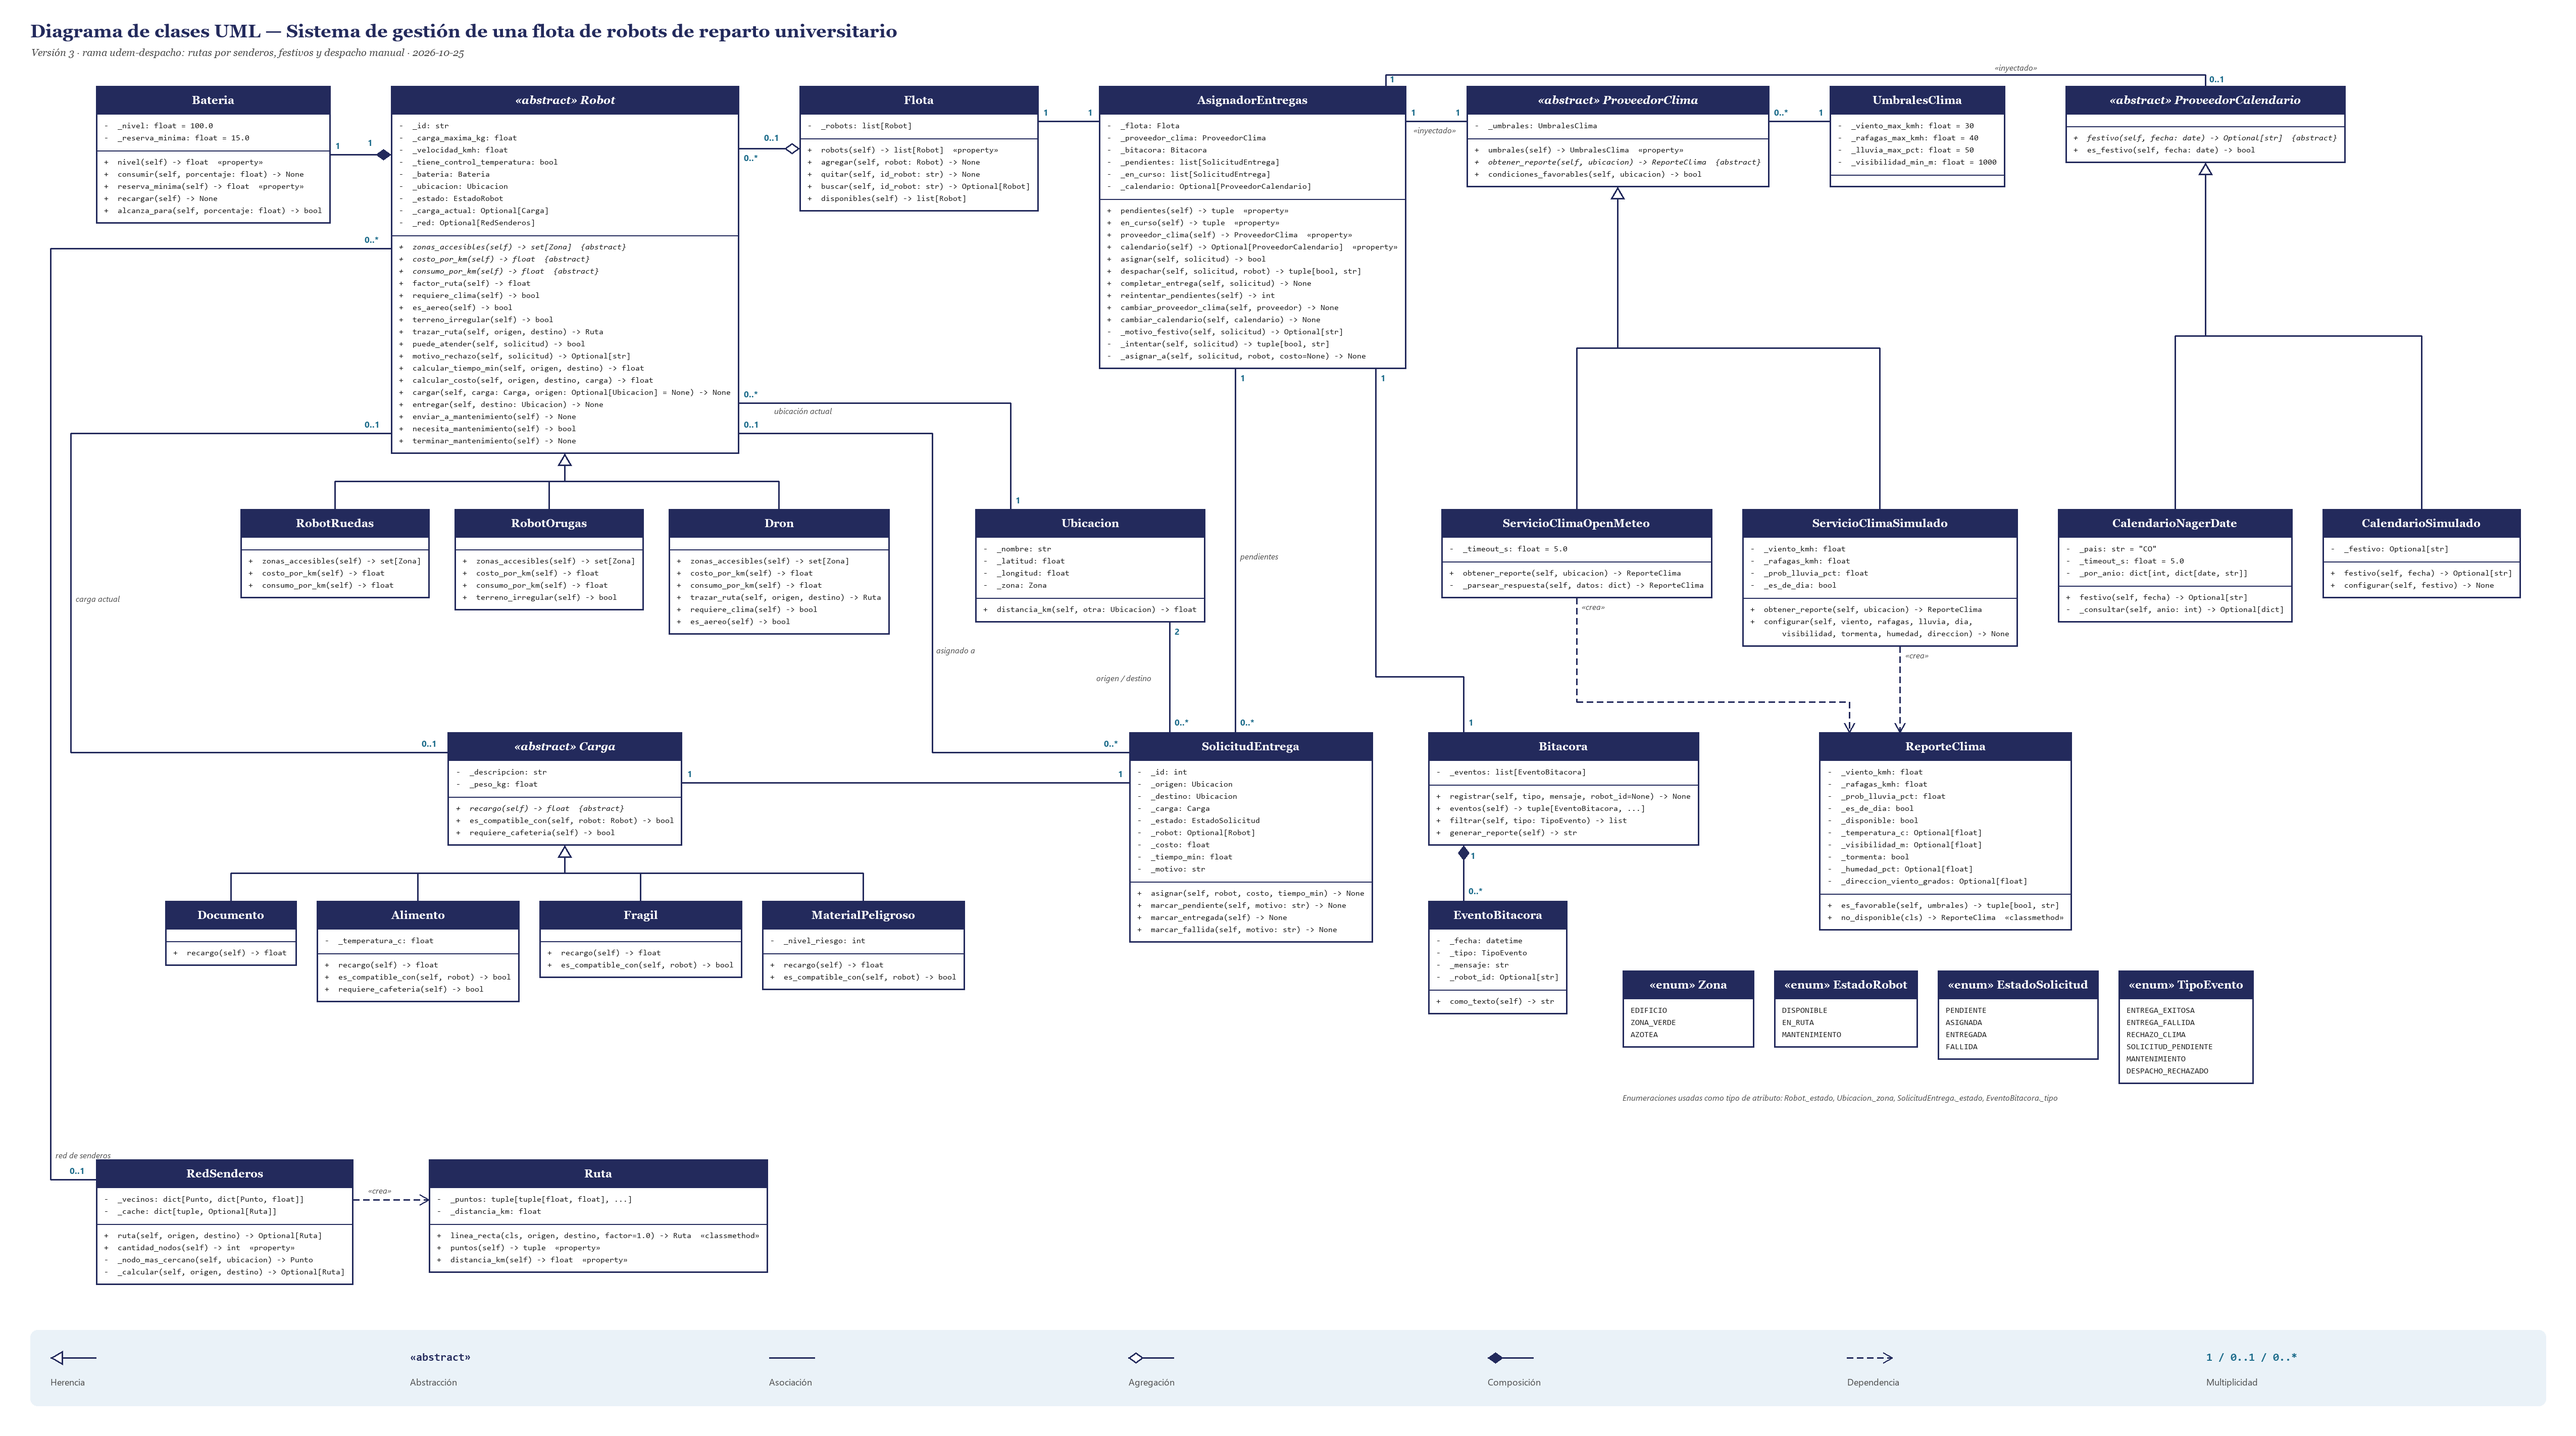
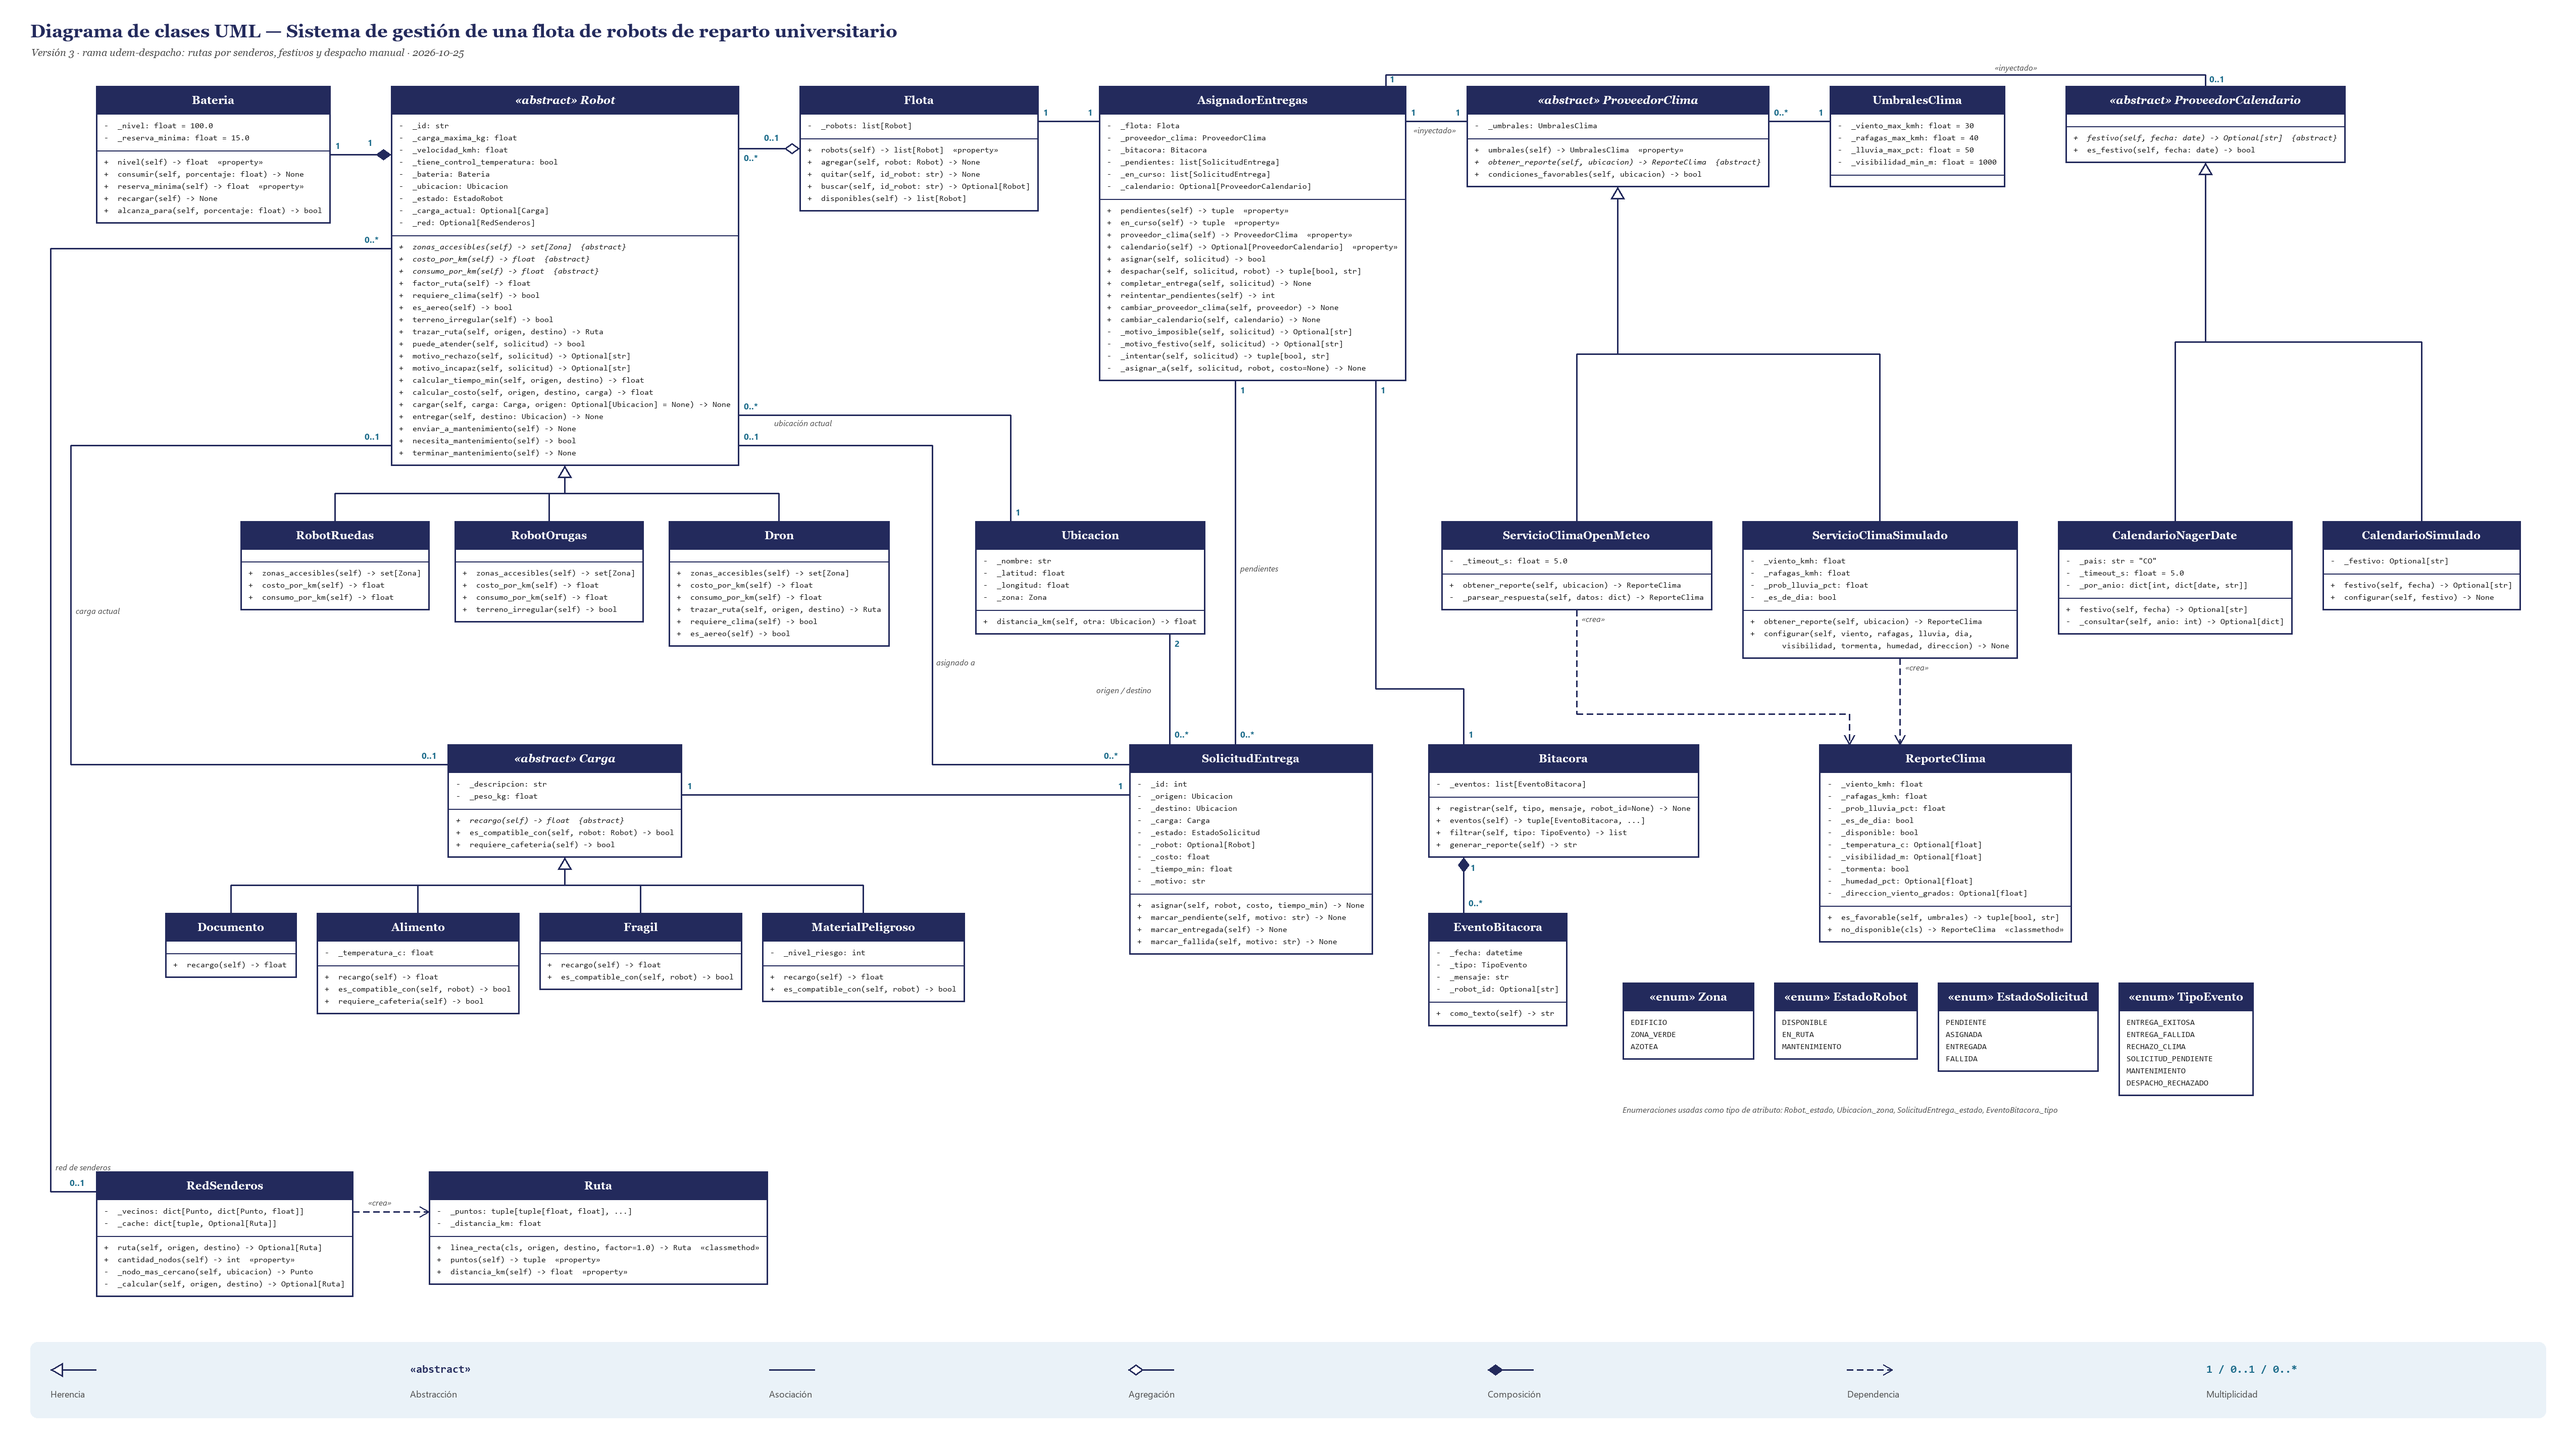
feat(asignacion): una llamada que ningún robot podría atender falla y queda en la bitácora
Robot.motivo_incapaz separa las reglas fijas (peso, zonas, tipo de carga)
de las pasajeras (estado, batería). Si ningún robot de la flota es capaz,
asignar marca la solicitud FALLIDA y registra ENTREGA_FALLIDA, como pide el
PRD, en vez de reintentarla para siempre. La web avisa el motivo al cerrar
la llamada. UML v3 y anexo de cambios al día.

diff --git a/src/flota/web/pagina/app.js b/src/flota/web/pagina/app.js
@@ -143,7 +143,13 @@ async function despacharCon(promesa) {
   const r = await promesa;
   if (r.error) return anunciar($("llamada-resultado"), r.error, false);
   const [ok, motivo] = r;
-  ok ? cerrarLlamada() : anunciar($("llamada-resultado"), `RECHAZADO: ${motivo}`, false);
+  if (ok) return cerrarLlamada();
+  anunciar($("llamada-resultado"), `RECHAZADO: ${motivo}`, false);
+  ultimo = await api.estado();
+  if (!ultimo.balizas.some(b => b.id === vista.llamada)) {  // falló: ningún robot podría llevarla
+    cerrarLlamada();
+    avisar(`llamada fallida: ${motivo}`);
+  }
 }
 
 function elegirRobot(id) {

diff --git a/tests/test_asignador.py b/tests/test_asignador.py
@@ -3,7 +3,7 @@ import pytest
 
 from flota.asignacion.asignador import DURACION_MANTENIMIENTO_S, AsignadorEntregas
 from flota.dominio.bitacora import Bitacora, TipoEvento
-from flota.dominio.carga import Alimento, Documento
+from flota.dominio.carga import Alimento, Documento, MaterialPeligroso
 from flota.dominio.estado_robot import EstadoRobot
 from flota.dominio.flota import Flota
 from flota.dominio.robot import Dron, RobotOrugas, RobotRuedas
@@ -90,7 +90,8 @@ def test_cambiar_proveedor_en_vivo(entorno):
 
 # --- Commit 11: pendientes, reintentos, entregas y mantenimiento ------------
 def test_sin_robot_queda_pendiente_y_se_registra(entorno):
-    _, bitacora, _, asignador = entorno
+    flota, bitacora, _, asignador = entorno
+    flota.agregar(RobotRuedas("R-02", ESTACION, tiene_control_temperatura=True, nivel_bateria=16))  # sin carga
     s = SolicitudEntrega(CAFETERIA, BIBLIOTECA, Alimento("Almuerzo", 1, 60))
     assert not asignador.asignar(s)
     assert asignador.pendientes == (s,) and s.motivo
@@ -98,6 +99,20 @@ def test_sin_robot_queda_pendiente_y_se_registra(entorno):
     asignador.reintentar_pendientes()  # sigue sin poder: ni se duplica ni se registra de nuevo
     assert asignador.pendientes == (s,)
     assert len(bitacora.filtrar(TipoEvento.SOLICITUD_PENDIENTE)) == 1
+
+
+@pytest.mark.parametrize("carga, destino", [
+    (MaterialPeligroso("Reactivos", 1, 2), AZOTEA),  # solo el dron llega a la azotea y no lleva peligrosos
+    (Documento("Archivo muerto", 50), BIBLIOTECA),   # más que la carga máxima de toda la flota
+])
+def test_si_ningun_robot_podria_atenderla_falla_y_se_registra(entorno, carga, destino):
+    _, bitacora, _, asignador = entorno
+    s = SolicitudEntrega(CAFETERIA, destino, carga)
+    assert not asignador.asignar(s)
+    assert s.estado is EstadoSolicitud.FALLIDA and s.motivo.startswith("ningún robot de la flota")
+    assert s not in asignador.pendientes  # no se reintenta para siempre
+    fallida, = bitacora.filtrar(TipoEvento.ENTREGA_FALLIDA)
+    assert f"Solicitud {s.id}" in fallida.mensaje
 
 
 def test_pendiente_por_clima_se_reintenta_cuando_mejora(entorno):

diff --git a/src/flota/dominio/robot.py b/src/flota/dominio/robot.py
@@ -85,10 +85,21 @@ class Robot(ABC):
     def motivo_rechazo(self, solicitud) -> Optional[str]:
         """La primera regla que impide atender: estado, peso, zonas, tipo de carga y batería
         (ida al origen + entrega con reserva). None si puede atenderla."""
-        carga = solicitud.carga
-        zonas = self.zonas_accesibles()
         if self._estado is not EstadoRobot.DISPONIBLE:
             return f"{self._id} no está disponible ({self._estado.value})"
+        motivo = self.motivo_incapaz(solicitud)
+        if motivo:
+            return motivo
+        consumo = (self._consumo_entre(self._ubicacion, solicitud.origen)
+                   + self._consumo_entre(solicitud.origen, solicitud.destino))
+        if not self._bateria.alcanza_para(consumo):
+            return f"batería insuficiente: {self.nivel_bateria:.0f} %"
+        return None
+
+    def motivo_incapaz(self, solicitud) -> Optional[str]:
+        """Las reglas que no cambian esperando (peso, zonas y tipo de carga). None si alguna vez podría."""
+        carga = solicitud.carga
+        zonas = self.zonas_accesibles()
         if carga.peso_kg > self._carga_maxima_kg:
             return f"sobrepeso: {carga.peso_kg:g} kg > {self._carga_maxima_kg:g} kg"
         for lugar in (solicitud.origen, solicitud.destino):
@@ -96,10 +107,6 @@ class Robot(ABC):
                 return f"{self._id} no llega a {lugar.nombre} ({lugar.zona.value})"
         if not carga.es_compatible_con(self):
             return f"carga incompatible: {type(carga).__name__} en {self._id}"
-        consumo = (self._consumo_entre(self._ubicacion, solicitud.origen)
-                   + self._consumo_entre(solicitud.origen, solicitud.destino))
-        if not self._bateria.alcanza_para(consumo):
-            return f"batería insuficiente: {self.nivel_bateria:.0f} %"
         return None
 
     # --- Operación: cada método cambia el estado del robot -----------------

diff --git a/src/flota/asignacion/asignador.py b/src/flota/asignacion/asignador.py
@@ -53,9 +53,16 @@ class AsignadorEntregas:
         return tuple(self._en_curso.values())
 
     def asignar(self, solicitud: SolicitudEntrega) -> bool:
-        """True si un robot quedó asignado; si no, la solicitud queda pendiente y se reintentará."""
+        """True si un robot quedó asignado. Si no, la solicitud queda pendiente y se reintentará,
+        o falla si ningún robot de la flota podría atenderla nunca."""
         if solicitud.estado is not EstadoSolicitud.PENDIENTE:  # antes de tocar ningún robot
             raise ValueError(f"Solicitud {solicitud.id} ya está {solicitud.estado.value}")
+        imposible = self._motivo_imposible(solicitud)
+        if imposible:
+            solicitud.marcar_fallida(imposible)
+            self._pendientes.pop(solicitud.id, None)
+            self._bitacora.registrar(TipoEvento.ENTREGA_FALLIDA, f"Solicitud {solicitud.id}: {imposible}")
+            return False
         asignada, motivo = self._intentar(solicitud)
         if asignada:
             self._pendientes.pop(solicitud.id, None)
@@ -134,6 +141,13 @@ class AsignadorEntregas:
                 robot.terminar_mantenimiento()
                 self._bitacora.registrar(TipoEvento.MANTENIMIENTO, "Recargado: vuelve a la flota", id_robot)
         return len(listos)
+
+    def _motivo_imposible(self, solicitud: SolicitudEntrega) -> Optional[str]:
+        """Si ningún robot de la flota la atendería aunque esperara (peso, zonas o tipo de carga), por qué."""
+        motivos = [r.motivo_incapaz(solicitud) for r in self._flota.robots]
+        if not motivos or None in motivos:  # sin robots todavía puede llegar uno: se espera
+            return None
+        return "ningún robot de la flota puede llevarla (" + "; ".join(motivos) + ")"
 
     def _motivo_festivo(self, solicitud: SolicitudEntrega) -> Optional[str]:
         if solicitud.carga.requiere_cafeteria() and self._calendario is not None:

diff --git a/tests/test_despacho.py b/tests/test_despacho.py
@@ -109,3 +109,11 @@ def test_no_se_despacha_un_robot_ajeno_a_la_flota(entorno):
     with pytest.raises(ValueError):
         asignador.despachar(SolicitudEntrega(CAFETERIA, BIBLIOTECA, Documento("Acta", 1)),
                             RobotRuedas("R-99", ESTACION))
+
+
+def test_motivo_incapaz_ignora_lo_que_cambia_esperando():
+    robot = RobotRuedas("R-01", ESTACION, nivel_bateria=16)
+    robot.cargar(Documento("Otra", 1))
+    solicitud = SolicitudEntrega(CAFETERIA, BIBLIOTECA, Documento("Acta", 1))
+    assert robot.motivo_incapaz(solicitud) is None  # ocupado y sin batería, pero podría más adelante
+    assert robot.motivo_incapaz(SolicitudEntrega(CAFETERIA, AZOTEA, Documento("Acta", 1))).endswith("(azotea)")

diff --git a/tests/test_centro_control.py b/tests/test_centro_control.py
@@ -189,7 +189,8 @@ def test_la_bitacora_llega_como_texto(centro):
     centro.despachar_auto(centro.crear_solicitud("cafeteria", "azotea_b11", "peligroso", 1))
     eventos = centro.estado()["bitacora"]
     assert eventos["total"] == len(eventos["ultimos"]) >= 1
-    assert eventos["ultimos"][-1]["tipo"] == "SOLICITUD_PENDIENTE"
+    assert eventos["ultimos"][-1]["tipo"] == "ENTREGA_FALLIDA"  # ningún robot lleva peligrosos a una azotea
+    assert centro.estado()["balizas"] == []
     assert "REPORTE" in centro.exportar_bitacora()
     assert next(s for s in centro._asignador.en_curso).estado is EstadoSolicitud.ASIGNADA
 

diff --git a/docs/CAMBIOS_DISENO.md b/docs/CAMBIOS_DISENO.md
@@ -100,3 +100,4 @@ En resumen, el dominio ganó cinco clases (`Ruta`, `RedSenderos`, `ProveedorCale
 | `main.py` compara `s.estado is EstadoSolicitud.ASIGNADA` (antes `s.estado.value == "asignada"`) y deja de llamar a `reintentar_pendientes()` a mano: las dos vueltas de entregas quedan en un `for`. | `completar_entrega` ya reintenta las pendientes, así que la llamada extra no hacía nada. Comparar el texto del enum se rompe en silencio si cambia su valor. | La salida de la demo por consola es la misma, línea por línea. |
 | Se retira la interfaz de CustomTkinter (`gui/`: ventana, paneles, plantilla, cámara del Canvas y efectos de clima) y queda solo la web. Lo que la web comparte pasa a `flota/presentacion/`: `CentroControl`, `mosaico`, `retratos` y la paleta (`tema.py`, sin nada de CustomTkinter). | El profesor aprobó la versión mejorada y la web como interfaz final. Mantener dos interfaces que mostraban lo mismo duplicaba el trabajo en cada cambio de la presentación. | La separación pagó al final: borrar una interfaz entera no tocó el dominio, ni el asignador, ni `CentroControl`, ni sus pruebas; solo cambió la ruta de los imports. |
 | `python main.py` abre el centro de control web; `--consola` corre la demo por texto y `--gui` desaparece. `requirements.txt` cambia `customtkinter` por `pillow`. | La web es la forma principal de usar el sistema. `pillow` (mosaicos y retratos) nunca estuvo en `requirements.txt`: llegaba de rebote con `tkintermapview`, así que una instalación limpia de la rama habría fallado. | Se comprobó instalando `requirements.txt` en un entorno virtual nuevo y corriendo las pruebas ahí. |
+| `Robot.motivo_incapaz(solicitud)` separa las reglas que no cambian esperando (peso, zonas, tipo de carga) de las que sí (estado, batería); `motivo_rechazo` la usa. `AsignadorEntregas._motivo_imposible` revisa toda la flota: si ningún robot podría atender la solicitud, `asignar` la marca `FALLIDA` y anota `ENTREGA_FALLIDA` en la bitácora, en vez de dejarla pendiente. `despachar` también exige que la solicitud siga pendiente antes de cargar el robot. | Revisión previa a la Fase 6: el PRD pide registrar entregas fallidas, pero `marcar_fallida()` y `ENTREGA_FALLIDA` no se usaban. Una llamada imposible (material peligroso a una azotea, 50 kg) se reintentaba para siempre y su baliza no se podía quitar. | Un estado del ciclo de vida que nadie alcanza es una regla sin implementar, aunque el enum lo tenga. Distinguir "no puede ahora" de "no podrá nunca" es lo que permite decidir entre esperar y fallar. Con la flota vacía no se falla: todavía puede llegar un robot. |

diff --git a/README.md b/README.md
@@ -4,7 +4,7 @@
 
 <p align="center">
   <img src="https://img.shields.io/badge/Python-3.10%2B-3776AB?logo=python&logoColor=white" alt="Python 3.10 o superior">
-  <img src="https://img.shields.io/badge/pruebas-235%20en%20verde-3f9a6b" alt="235 pruebas en verde">
+  <img src="https://img.shields.io/badge/pruebas-239%20en%20verde-3f9a6b" alt="239 pruebas en verde">
   <img src="https://img.shields.io/badge/interfaz-web%203D%20%C2%B7%20three.js-1d7f7b" alt="Interfaz web 3D con three.js">
   <a href="LICENSE.md"><img src="https://img.shields.io/badge/licencia-MIT-f08a2c" alt="Licencia MIT"></a>
 </p>
